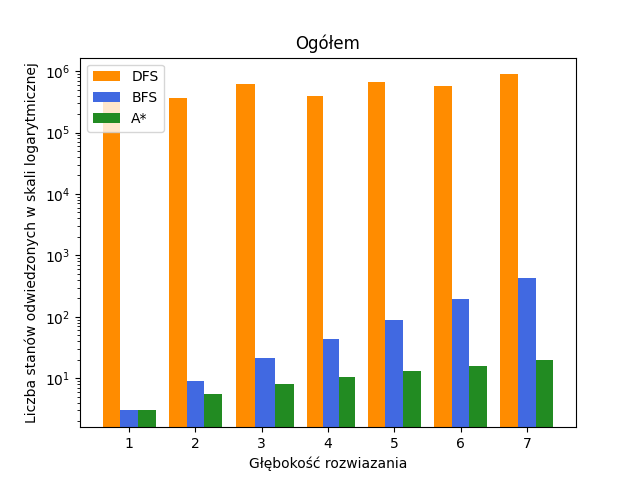
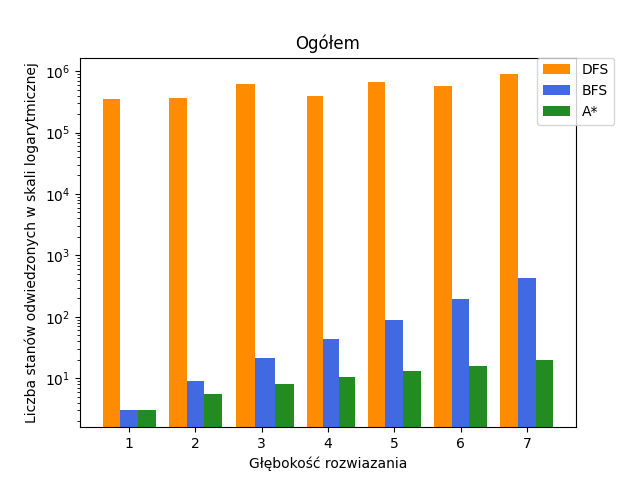
update summary graphs

Changed region(s): [[0.125, 0.125, 0.25, 0.2812], [0.8438, 0.125, 0.9688, 0.25]]

diff --git a/fifteen-puzzle-project/graphs.py b/fifteen-puzzle-project/graphs.py
@@ -62,6 +62,68 @@ def summary_graph(data, nr_criterion, name_criterion, name_file, use_log_scale):
     # zapisanie wykresu do pliku
     plt.savefig('./graphs/' + name_file)
 
+def summary_graph2(data, nr_criterion, name_criterion, name_file, use_log_scale):
+        plt.clf()
+
+        # tworzenie list sum_astar, sum_bfs, sum_dfs
+        sum_astar = []  # pierwsze dla ilości zliczonych obiektów, reszta to głębokość rozwiązania = index
+        sum_bfs = []
+        sum_dfs = []
+        for i in range(0, 8):
+            sum_astar.append(0.0)
+            sum_bfs.append(0.0)
+            sum_dfs.append(0.0)
+
+        # tworzenie tabel avg_astar_table, avg_bfs_table, avg_dfs_table
+        avg_astar_table = []
+        avg_bfs_table = []
+        avg_dfs_table = []
+
+        astar = [0.0] * 7
+        bfs = [0.0] * 7
+        dfs = [0.0] * 7
+
+        # przetwarzanie danych
+        for d in data:
+            if d[2] == 'astr':
+                sum_astar[int(d[0])] += float(d[nr_criterion + 3])
+                sum_astar[0] = sum_astar[0] + 1.0
+                astar[int(d[0]) - 1] += 1.0
+            if d[2] == 'bfs':
+                sum_bfs[int(d[0])] += float(d[nr_criterion + 3])
+                sum_bfs[0] = sum_bfs[0] + 1.0
+                bfs[int(d[0]) - 1] += 1.0
+            if d[2] == 'dfs':
+                sum_dfs[int(d[0])] += float(d[nr_criterion + 3])
+                sum_dfs[0] = sum_dfs[0] + 1.0
+                dfs[int(d[0]) - 1] += 1.0
+
+        # obliczanie średnich dla każdego algorytmu
+        for i in range(0, 7):
+            avg_astar_table.append(sum_astar[i + 1] / astar[i])
+            avg_bfs_table.append(sum_bfs[i + 1] / bfs[i])
+            avg_dfs_table.append(sum_dfs[i + 1] / dfs[i])
+
+        # tworzenie wykresu
+        x = [1, 2, 3, 4, 5, 6, 7]
+        # y = [1.0, 2.0, 3.0, 4.0, 5.0, 6.0, 7.0, 8.0, 9.0, 10.0, 11.0, 12.0, 13.0, 14.0, 15.0, 16.0, 17.0, 18.0, 19.0, 20.0]
+        plt.hist([x, x, x], weights=[avg_dfs_table, avg_bfs_table, avg_astar_table], label=['BFS', 'DFS', 'A*'],
+                 color=['#FF8C00', '#4169E1', '#228B22'], bins=[0.5, 1.5, 2.5, 3.6, 4.5, 5.5, 6.5, 7.5])
+        # dodanie podziałki dla osi Y
+        plt.yticks(range(0, 21, 1))
+        plt.title('Ogółem')
+        plt.xlabel('Głębokość rozwiazania')
+        plt.ylabel(name_criterion)
+        plt.legend(('DFS', 'BFS', 'A*'), loc='upper right',bbox_to_anchor=(0.96, 0.88), borderaxespad=0.,
+           bbox_transform=plt.gcf().transFigure)
+
+        # opcjonalne skalowanie logarytmiczne osi y
+        if use_log_scale is True:
+            plt.yscale("log")
+
+        # zapisanie wykresu do pliku
+        plt.savefig('./graphs/' + name_file)
+
 def astar_graph(data, nr_criterion, name_criterion, name_file, use_log_scale):
     # Czyszczenie aktualnego wykresu
     plt.clf()
@@ -353,12 +415,12 @@ astar_graph(dataFrame, 1, "Długość rozwiązania", "astr_dlugosc_rozwiazania",
 dfs_graph(dataFrame, 1, "Długość rozwiązania", "dfs_dlugosc_rozwiazania", False)
 bfs_graph(dataFrame, 1, "Długość rozwiązania", "bfs_dlugosc_rozwiazania", False)
 
-summary_graph(dataFrame, 2, "Liczba stanów odwiedzonych w skali logarytmicznej", "ogolne_odwiedzone", True)
+summary_graph2(dataFrame, 2, "Liczba stanów odwiedzonych w skali logarytmicznej", "ogolne_odwiedzone", True)
 astar_graph(dataFrame, 2, "Liczba stanów odwiedzonych", "astr_odwiedzone", False)
 bfs_graph(dataFrame, 2, "Liczba stanów odwiedzonych", "bfs_odwiedzone", False)
 dfs_graph(dataFrame, 2, "Liczba stanów odwiedzonych", "dfs_odwiedzone", False)
 
-summary_graph(dataFrame, 3, "Liczba stanów przetworzonych w skali logarytmicznej", "ogolne_przetworzone", True)
+summary_graph2(dataFrame, 3, "Liczba stanów przetworzonych w skali logarytmicznej", "ogolne_przetworzone", True)
 astar_graph(dataFrame, 3, "Liczba stanów przetworzonych", "astr_przetworzone", False)
 bfs_graph(dataFrame, 3, "Liczba stanów przetworzonych", "bfs_przetworzone", False)
 dfs_graph(dataFrame, 3, "Liczba stanów przetworzonych", "dfs_przetworzone", False)
